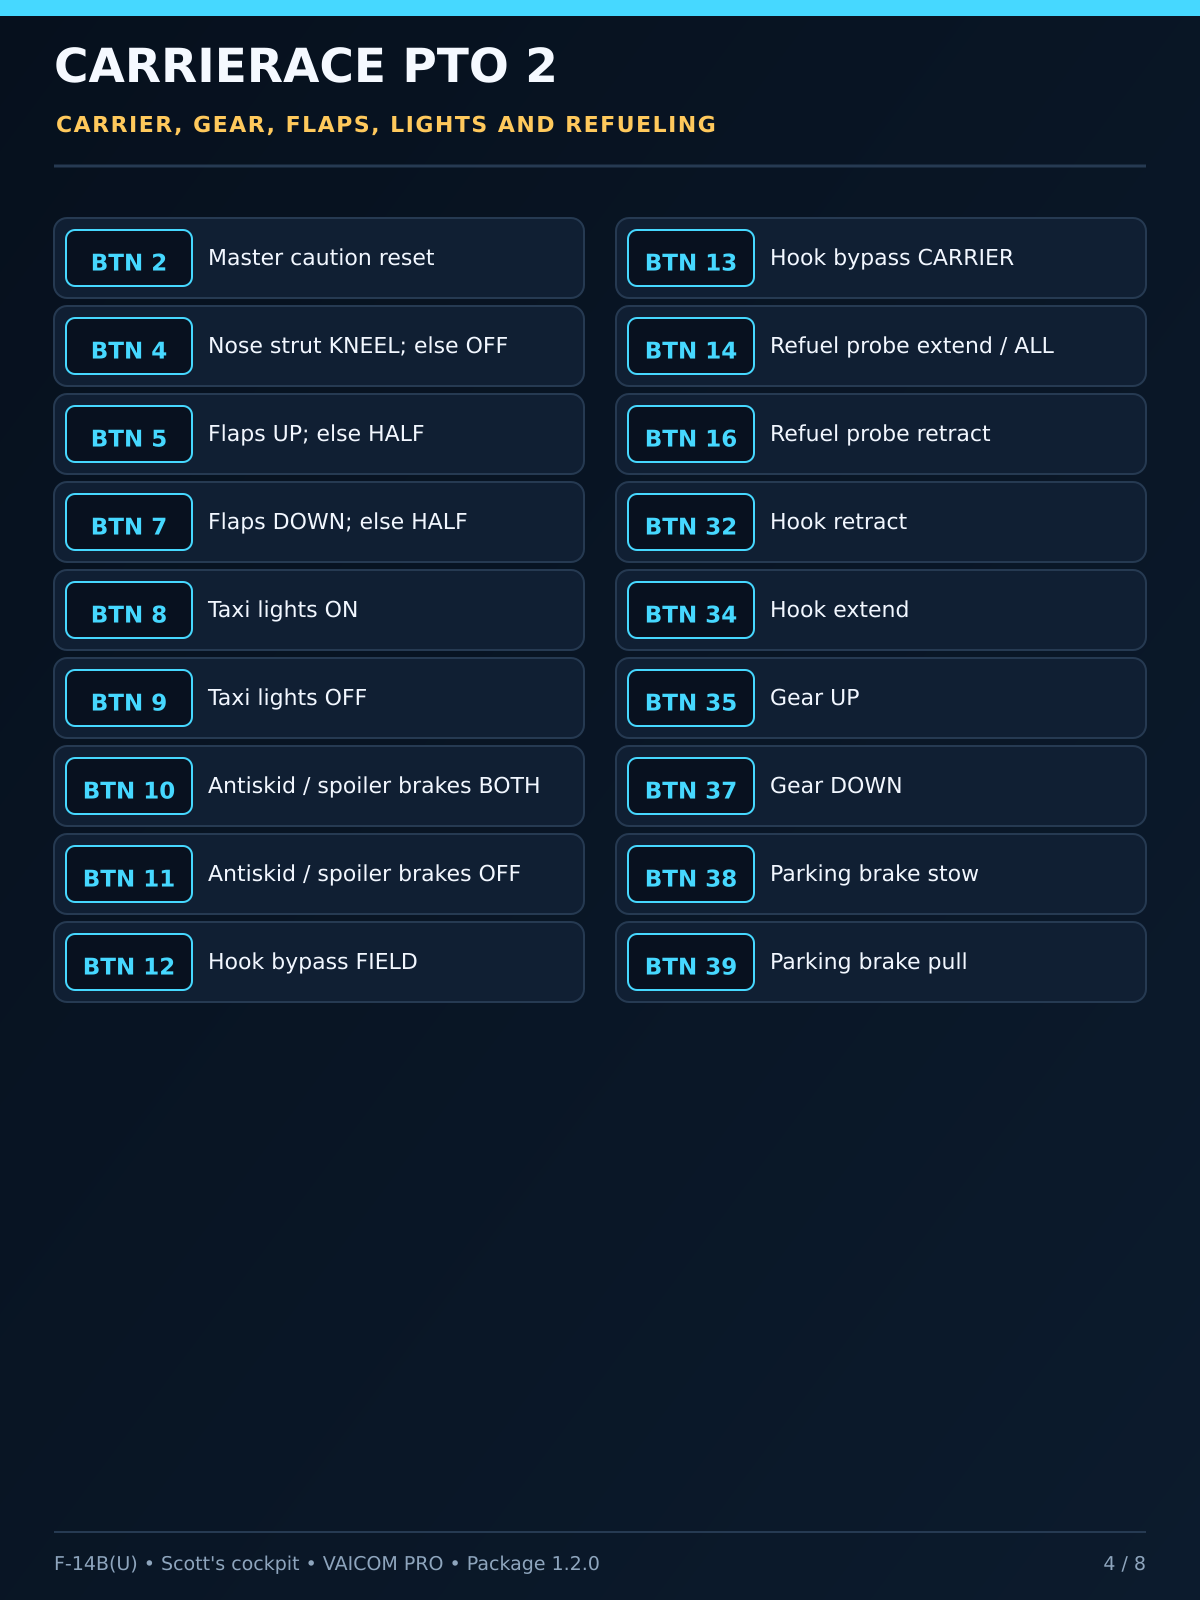
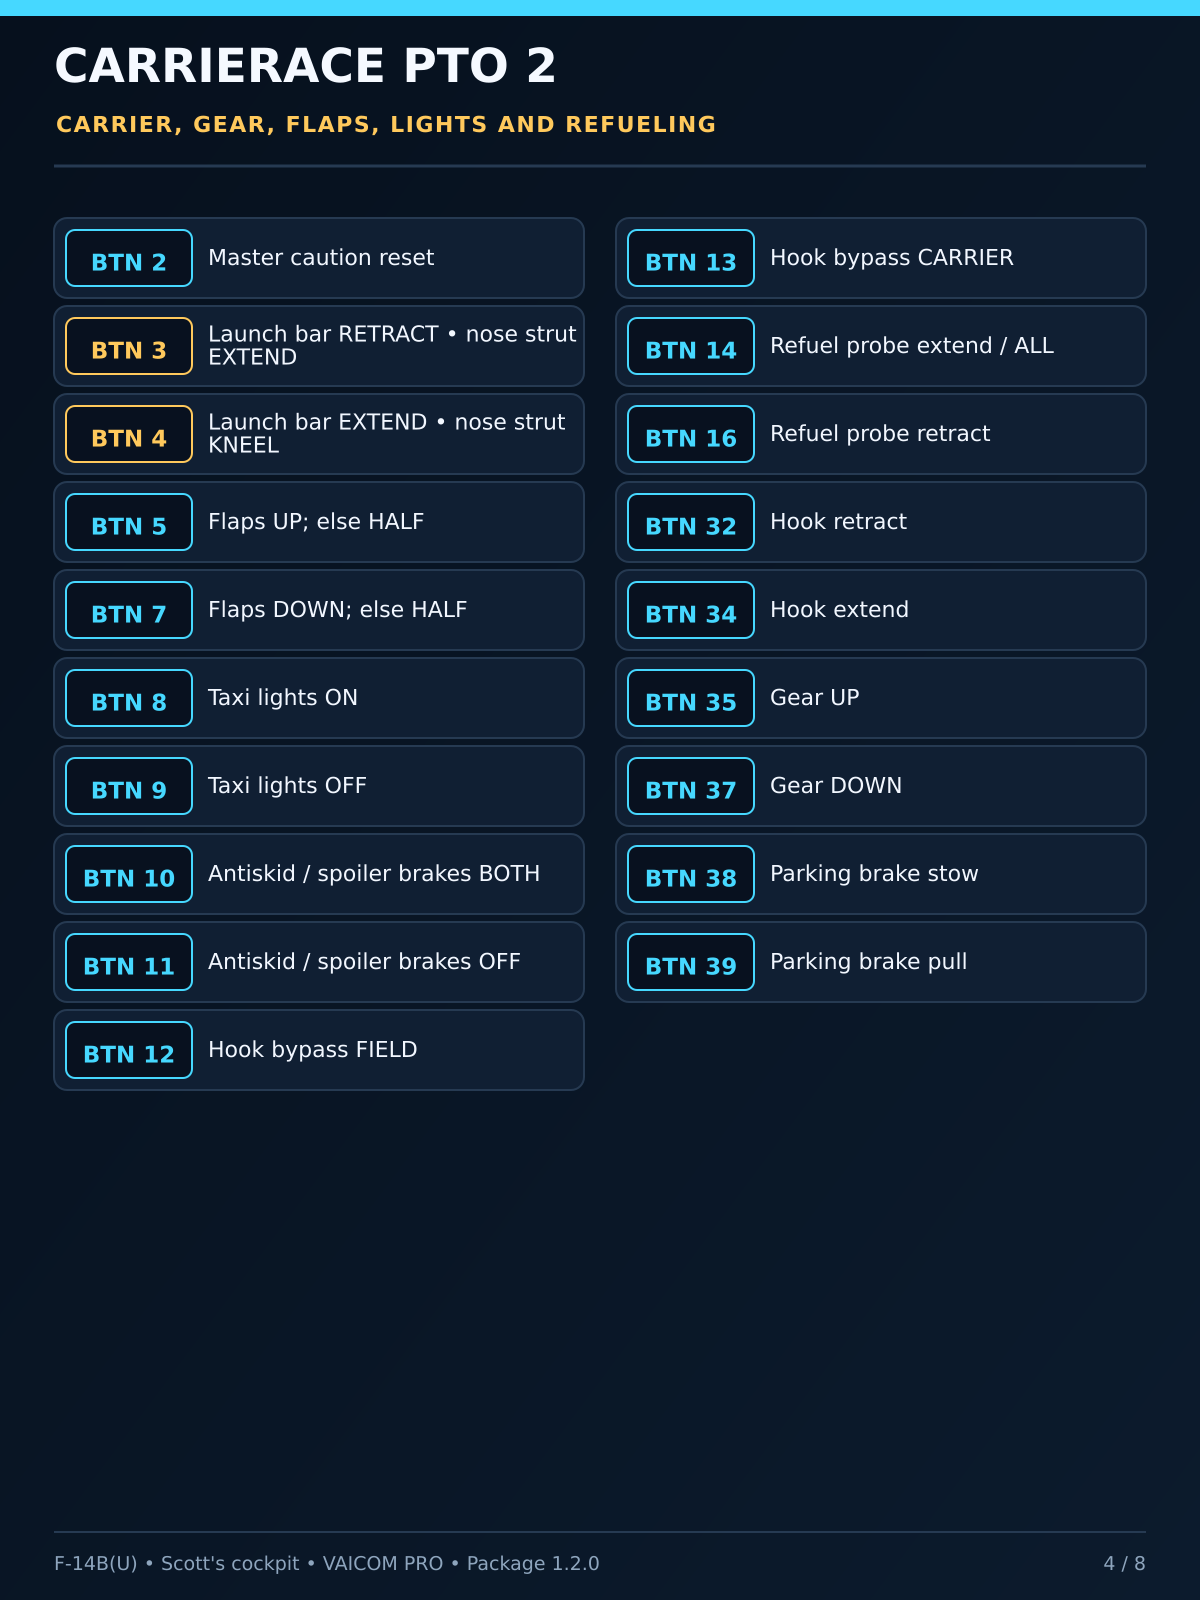
Map PTO2 launch bar switch to nose strut

diff --git a/docs/CONTROL-MAPPINGS.md b/docs/CONTROL-MAPPINGS.md
@@ -31,6 +31,15 @@ These directional bindings use the F-14B(U) speed-brake extend/retract command. 
 
 The four bindings are explicit in the Saved Games profile so they remain present even if Heatblur changes its device-default VKB mapping.
 
+## WINCTRL CarrierAce PTO2 — launch bar / nose strut
+
+| Physical switch position | Button | F-14B(U) command |
+|---|---:|---|
+| LAUNCH BAR RETRACT | 3 | Nose strut EXTEND; else OFF |
+| LAUNCH BAR EXTEND | 4 | Nose strut KNEEL; else OFF |
+
+The Hornet-labeled two-position launch-bar switch drives the Tomcat's three-way nose-strut control. Each maintained position returns the aircraft control to OFF when released.
+
 ## MFD 1 — direct Jester
 
 | Button | Command | Button | Command |
